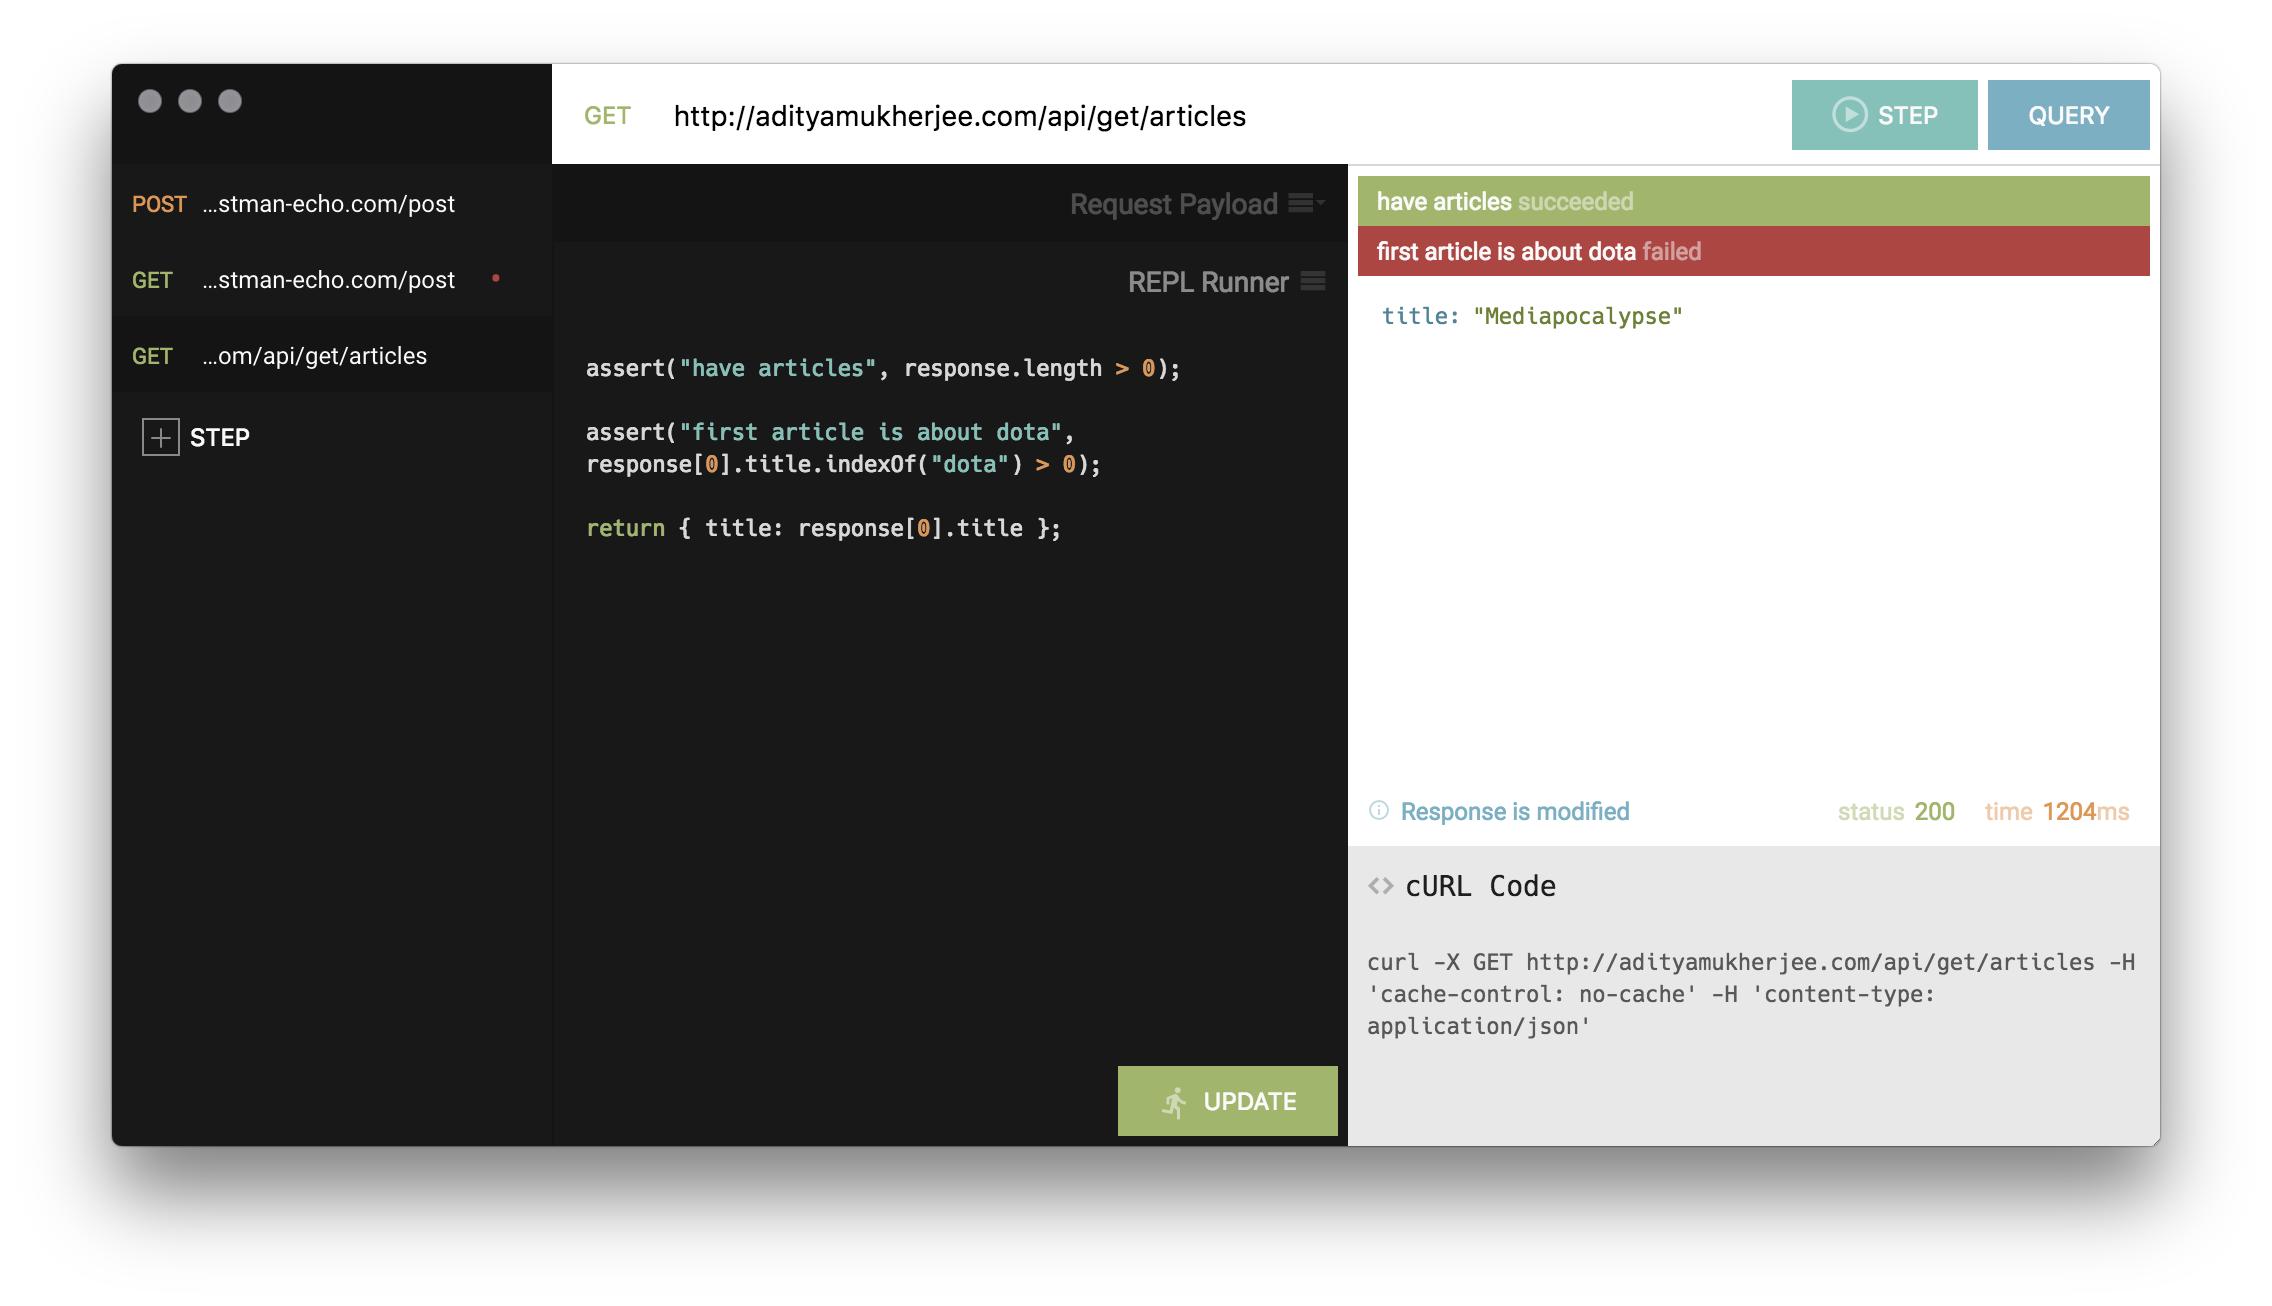
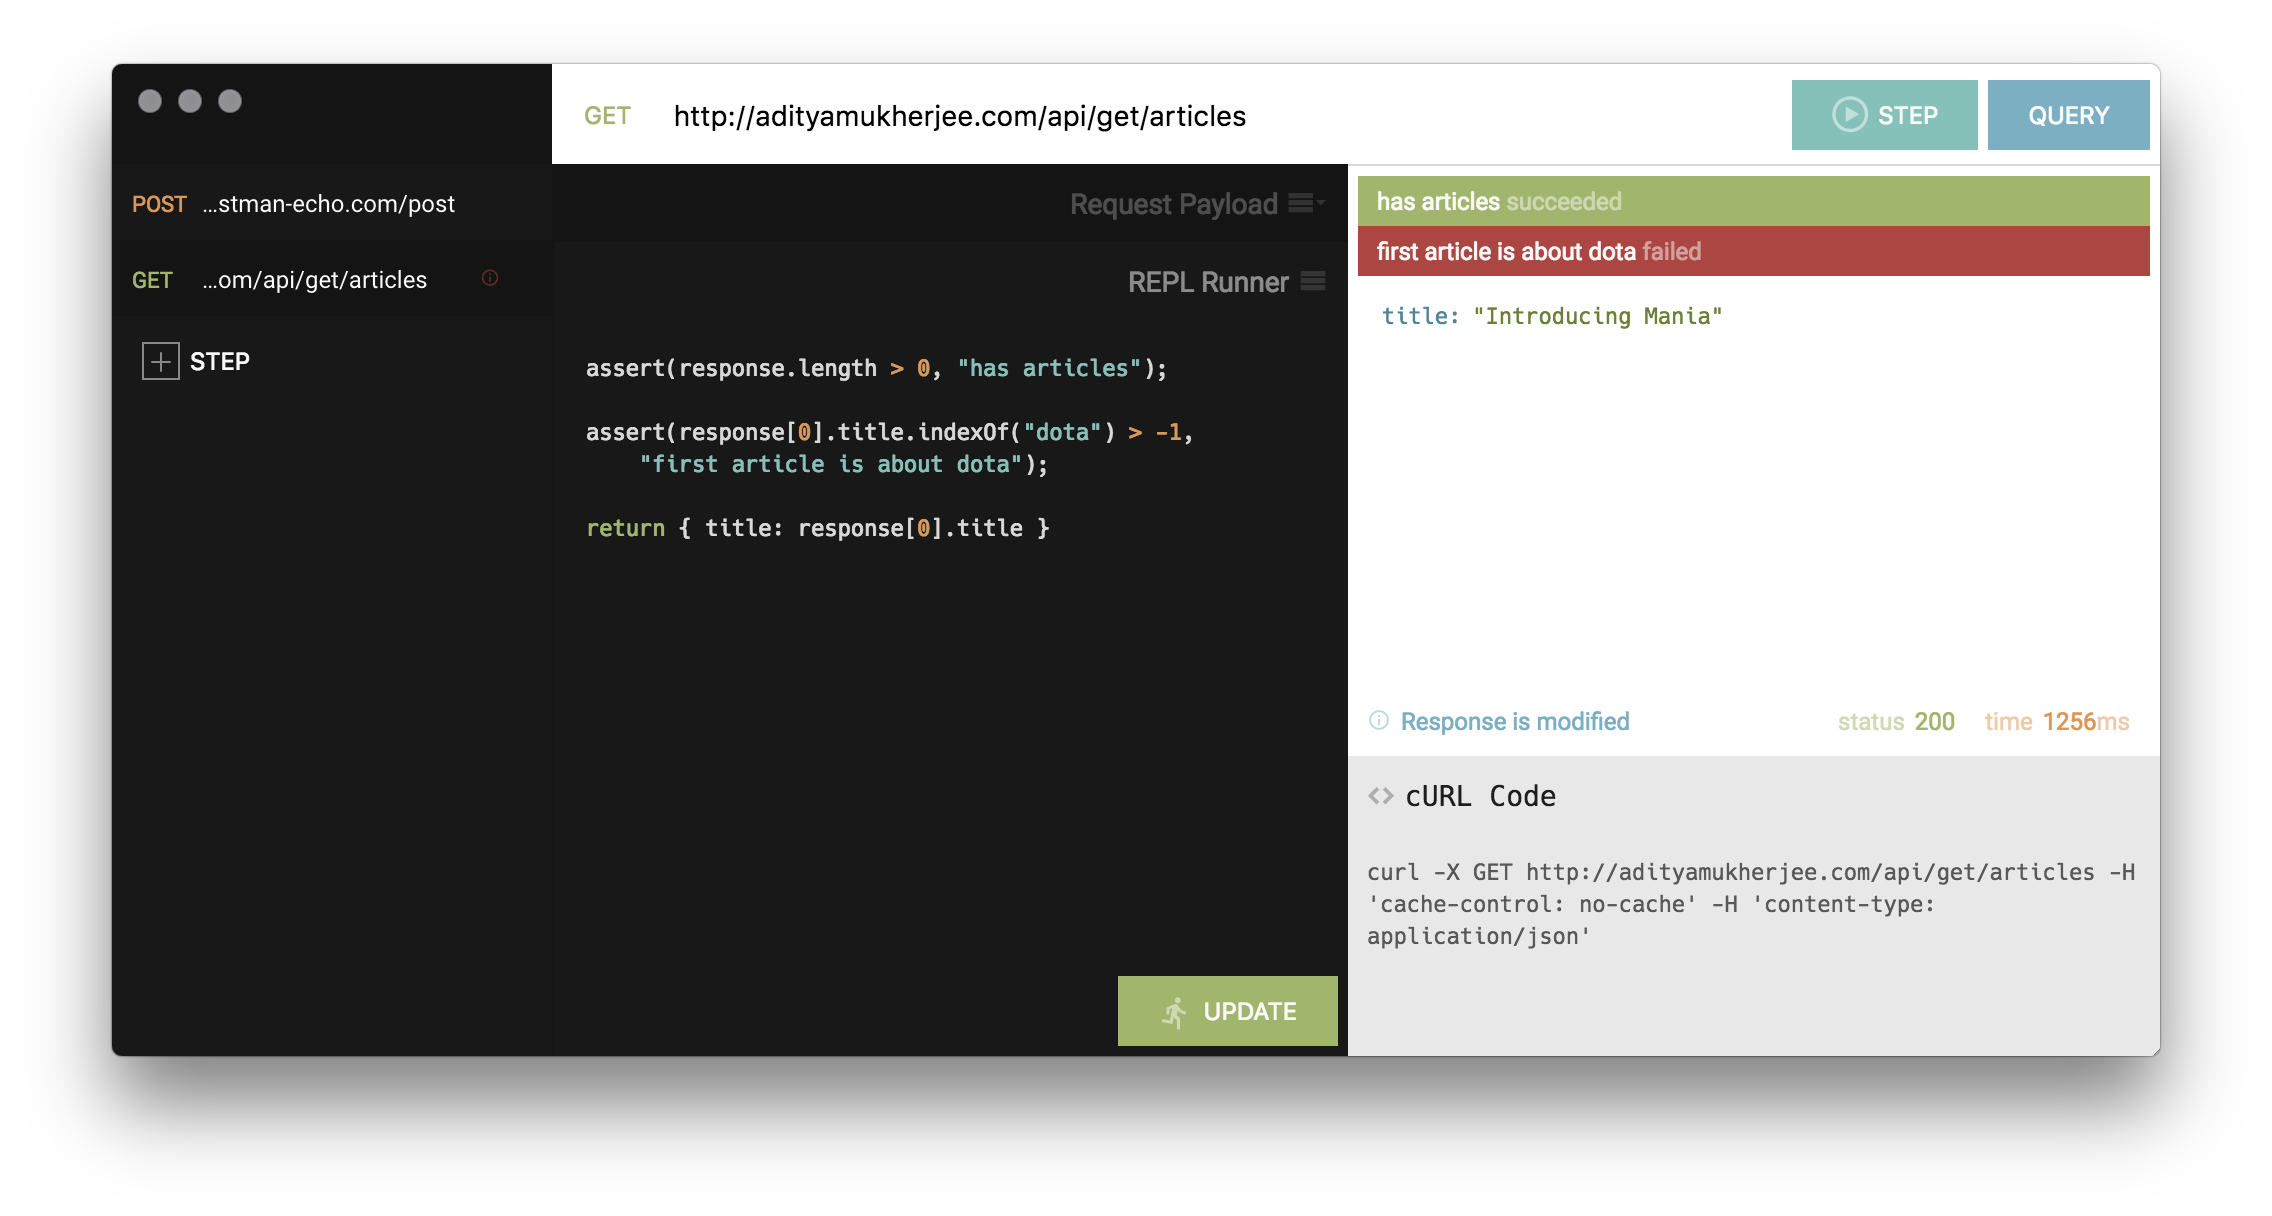
add tests for correct state changes
swapped `assert` arguments to match nodejs assert function
add icon to step list when step has failed assertions
improve how response status info is coloured

diff --git a/test/appState.js b/test/appState.js
@@ -8,4 +8,172 @@ describe("AppState", () => {
     assert(App !== undefined);
   });
 
+  it("should add a step", () => {
+    // arrange
+    let initState = { queries: [{ steps: [], currentStep: -1 }], currentQuery: 0 };
+
+    // act
+    let newState = App.default(initState, { type: "ADD_STEP", query: 0 });
+
+    // assert
+    assert(newState.queries !== initState.queries, "should make new `queries` array");
+    assert(newState.queries[0].steps !== initState.queries[0].steps, "should make new `steps` array");
+    assert(newState.queries[0].steps.length === 1, "should add a step");
+    assert(newState.queries[0].currentStep === 0, "should increment currentStep");
+  });
+
+  describe("when removing step", () => {
+
+    it("should remove specified step", () => {
+      // arrange
+      let initState = { queries: [{ steps: [{}, {}], currentStep: 0 }], currentQuery: 0 };
+
+      // act
+      let newState = App.default(initState, { type: "REMOVE_STEP", query: 0, step: 0 });
+
+      // assert
+      assert(newState.queries !== initState.queries, "should make new `queries` array");
+      assert(newState.queries[0].steps !== initState.queries[0].steps, "should make a new `steps` array");
+      assert(newState.queries[0].steps.length === 1, "should remove a step");
+    });
+
+    it("should set currentStep to new last step", () => {
+      // arrange
+      let initState = { queries: [{ steps: [{}, {}], currentStep: 1 }], currentQuery: 0 };
+
+      // act
+      let newState = App.default(initState, { type: "REMOVE_STEP", query: 0, step: 0 });
+
+      // assert
+      assert(newState.queries[0].currentStep === 0);
+    });
+
+    it("should not change currentStep", () => {
+      // arrange
+      let initState = { queries: [{ steps: [{}, {}], currentStep: 1 }], currentQuery: 0 };
+
+      // act
+      let newState = App.default(initState, { type: "REMOVE_STEP", query: 0, step: 1 });
+
+      // assert
+      assert(newState.queries[0].currentStep === 0);
+    });
+
+  });
+
+  it("should activate a given step", () => {
+    // arrange
+    let initState = { queries: [{ steps: [{}, {}], currentStep: 1 }], currentQuery: 0 };
+
+    // act
+    let newState = App.default(initState, { type: "ACTIVATE_STEP", query: 0, step: 0 });
+
+    // assert
+    assert(newState.queries[0].currentStep === 0);
+  });
+
+  it("should change current step method to POST", () => {
+    // arrange
+    let initState = { queries: [{ steps: [{ method: "GET" }], currentStep: 0 }], currentQuery: 0 };
+
+    // act
+    let newState = App.default(initState, { type: "TOGGLE_STEP_METHOD" });
+
+    // assert
+    assert(newState.queries[0].steps[0].method === "POST");
+  });
+
+  describe("when setting step value", () => {
+
+    it("should return new `steps` array", () => {
+      // arrange
+      let initState = { queries: [{ steps: [{ method: "GET" }, { url: "1234" }], currentStep: 0 }], currentQuery: 0 };
+
+      // act
+      let newState = App.default(initState, { type: "SET_CURRENT_STEP_VALUE", key: "url", value: "1234" });
+      let newState2 = App.default(initState, { type: "SET_STEP_VALUE", query: 0, step: 1, key: "method", value: "POST" });
+
+      // assert
+      assert(newState.queries[0].steps !== initState.queries[0].steps, "return new array when replacing in current step");
+      assert(newState2.queries[0].steps !== initState.queries[0].steps, "return new array when replacing in arbitrary step");
+    });
+
+    it("should set value in current step", () => {
+      // arrange
+      let initState = { queries: [{ steps: [{ method: "GET" }], currentStep: 0 }], currentQuery: 0 };
+
+      // act
+      let newState = App.default(initState, { type: "SET_CURRENT_STEP_VALUE", key: "url", value: "1234" });
+
+      // assert
+      assert(newState.queries[0].steps[0].url === "1234");
+    });
+
+    it("should set value in arbitrary step", () => {
+      // arrange
+      let initState = { queries: [{ steps: [{ method: "GET" }, { url: "1234" }], currentStep: 0 }], currentQuery: 0 };
+
+      // act
+      let newState = App.default(initState, { type: "SET_STEP_VALUE", query: 0, step: 0, key: "url", value: "1234" });
+      let newState2 = App.default(initState, { type: "SET_STEP_VALUE", query: 0, step: 1, key: "method", value: "POST" });
+
+      // assert
+      assert(newState.queries[0].steps[0].url === "1234", "set url to 1234 in first step");
+      assert(newState2.queries[0].steps[1].method === "POST", "set method to POST in second step");
+    });
+
+  });
+
+  it("should add a new blank query", () => {
+    // arrange / set up responses
+    let initState = { queries: [], currentQuery: 0 };
+
+    // act
+    let newState = App.default(initState, { type: "ADD_QUERY", key: "url", value: "1234" });
+
+    // assert
+    assert(newState.queries !== initState.queries, "return new `queries` array");
+    assert(newState.queries.length === 1, "add a new query");
+  });
+
+  describe("when evaluating step runner", () => {
+
+    it("should run code against step response", () => {
+      // arrange / set up responses
+      let code = `return response.items`;
+      let response = `{ "items": [1, 2, 3] }`;
+      let initState = { queries: [{ steps: [{ method: "GET", modifier: code, response: { text: response, status: 200, time: 0 } }], currentStep: 0 }], currentQuery: 0 };
+
+      // act
+      let newState = App.default(initState, { type: "EVALUATE_STEP_RUNNER", query: 0, step: 0 });
+
+      // assert
+      let evalResponse = newState.queries[0].steps[0].evaluation.response;
+      assert(evalResponse[0] === 1, "first response value is 1");
+      assert(evalResponse[1] === 2, "second response value is 2");
+      assert(evalResponse[2] === 3, "third response value is 3");
+      assert(evalResponse[3] === undefined, "fourth response value doesn't exist");
+    });
+
+    it("should add assertions", () => {
+      // arrange / set up responses
+      let code = `assert(response.items[0] === 1, "labelled assertion");
+      assert(response.items[0] === 2);`;
+      let response = `{ "items": [1, 2, 3] }`;
+      let initState = { queries: [{ steps: [{ method: "GET", modifier: code, response: { text: response, status: 200, time: 0 } }], currentStep: 0 }], currentQuery: 0 };
+
+      // act
+      let newState = App.default(initState, { type: "EVALUATE_STEP_RUNNER", query: 0, step: 0 });
+
+      // assert
+      let assertions = newState.queries[0].steps[0].evaluation.assertions;
+      assert(assertions[0][0] === true, "first assertion is true");
+      assert(assertions[0][1] === "labelled assertion", "first assertion has a label");
+      assert(assertions[1][0] === false, "second assertion is false");
+      assert(assertions[1][1] === "unlabeled assertion 2", "second assertion has automatic label");
+    });
+
+  });
+
+
 });

diff --git a/src/js/reducers/helpers.js b/src/js/reducers/helpers.js
@@ -9,30 +9,32 @@ import { getCurrents, payloadInResponseContext } from "../globals";
 const { splice, set } = ops;
 
 // return new state object with new val for key for current step
-const replaceInCurrentStep = (state = {}, key = "", val = "") => {
-  const
-    { step, query } = getCurrents(state, false),
+const replaceInCurrentStep = (oldState = {}, key = "", val = "") => {
+  let
+    state = { ...oldState },
+    { step, query } = getCurrents(oldState, false),
     newStep = set(key, val, step);
 
   // update query steps
-  query.steps = splice(query.currentStep, 1, newStep, query.steps);
-  state.queries = splice(state.currentQuery, 1, {...query}, state.queries);
+  query = { ...query, steps: splice(query.currentStep, 1, newStep, query.steps) };
+  state.queries = splice(state.currentQuery, 1, { ...query }, state.queries);
 
-  return { ...state };
+  return state;
 };
 
 // return new state with new value for key in given arbitrary step and query indices
-const replaceInQueryStep = (state = {}, query, step, key = "", val = "") => {
-  const
+const replaceInQueryStep = (oldState = {}, query, step, key = "", val = "") => {
+  let
+    state = { ...oldState },
     queryObj = state.queries[query],
     stepObj = queryObj.steps[step],
     newStep = set(key, val, stepObj);
 
   // update query steps
-  queryObj.steps = splice(step, 1, newStep, queryObj.steps);
+  queryObj = { ...queryObj, steps: splice(step, 1, newStep, queryObj.steps) };
   state.queries = splice(query, 1, {...queryObj}, state.queries);
 
-  return { ...state };
+  return state;
 };
 
 // creates a new or copies a given step object

diff --git a/src/js/app/containers/repl.js b/src/js/app/containers/repl.js
@@ -114,9 +114,9 @@ const Repl = ({ method, url, payload, response, status, time, assertions, error,
     {!fetching && response && assertions.length > 0 && (
       <div className="response-actions">
         {assertions.map((assert, idx) => {
-          return <span key={idx} className={classnames("status", "assertion", String(assert[1]))}>
-            {assert[0]}
-            <span className="label result">&nbsp;{assert[1] ? "succeeded" : "failed"}</span>
+          return <span key={idx} className={classnames("status", "assertion", String(assert[0]))}>
+            {assert[1]}
+            <span className="label result">&nbsp;{assert[0] ? "succeeded" : "failed"}</span>
           </span>;
         })}
       </div>
@@ -127,7 +127,7 @@ const Repl = ({ method, url, payload, response, status, time, assertions, error,
     <div className="response-meta">
       {currentStatus(response, error, modified, fetching)}
       {!fetching && response && (
-        <span className={classnames("meta-info", "status", `s${status}`)}><span className="label">status</span>{status}</span>
+        <span className={classnames("meta-info", "status", `s${parseInt(status/100)}xx`)}><span className="label">status</span>{status}</span>
       )}
       {!fetching && response && (
         <span className={classnames("meta-info", "time", { good: time <= 500, medium: 500 < time <= 2000, bad: time > 2000 })}><span className="label">time</span>{time}<span className="label units">ms</span></span>

diff --git a/src/js/reducers/app.js b/src/js/reducers/app.js
@@ -31,7 +31,7 @@ const addStep = (oldState, queryIdx) => {
     state = { ...oldState },
     query = state.queries[queryIdx];
 
-  query.steps.push(createStepObject());
+  query = set("steps", [...query.steps, createStepObject()], query);
   query = set("currentStep", query.steps.length - 1, query);
   state.queries = splice(queryIdx, 1, query, state.queries);
 
@@ -81,7 +81,7 @@ const setQueryStepValue = (state, query, step, key, val) => replaceInQueryStep(s
 const addQuery = oldState => {
   const state = { ...oldState };
 
-  state.queries.push(createQueryObject());
+  state.queries = [ ...state.queries, createQueryObject() ];
   state.currentQuery += 1;
   return state;
 };

diff --git a/src/js/reducers/stepRunner.js b/src/js/reducers/stepRunner.js
@@ -6,11 +6,9 @@ const sandbox = (fn = "", response) => {
   let assertions = [];
 
   // collect all assertions
-  const addAssertion = (description, check) => {
-    if (typeof description !== "string") {
-      [check, description] = [description, `unlabeled assertion ${assertions.length + 1}`];
-    }
-    assertions.push(assert(description, check));
+  const addAssertion = (check, description) => {
+    if (!description) description = `unlabeled assertion ${assertions.length + 1}`;
+    assertions.push(assert(check, description));
     return undefined;
   };
 

diff --git a/src/js/app/components/queryStep.js b/src/js/app/components/queryStep.js
@@ -15,8 +15,8 @@ const constructClasses = step => {
 
 const QueryStep = ({ step, isActive, activate, remove }) => {
 
-  const failedAssertions = step.evaluation.assertions.filter(a => !a[1]);
-  const successResponse = step.response.status === 200;
+  const failedAssertions = step.evaluation.assertions.filter(a => !a[0]);
+  const successResponse = parseInt(step.response.status / 100) === 2;
 
   return (
     <div className={classnames({ active: isActive }, constructClasses(step))}>

diff --git a/src/scss/containers/repl.scss b/src/scss/containers/repl.scss
@@ -55,13 +55,11 @@
       align-items: center;
       color: $base04;
 
-      &.s200 { color: $green; }
+      &.s2xx { color: $green; }
+      &.s3xx { color: $orange; }
 
-      &.s404,
-      &.s401 { color: $red; }
-
-      &.s301,
-      &.s302 { color: $orange; }
+      &.s4xx,
+      &.s5xx { color: $red; }
     }
 
     .info {
